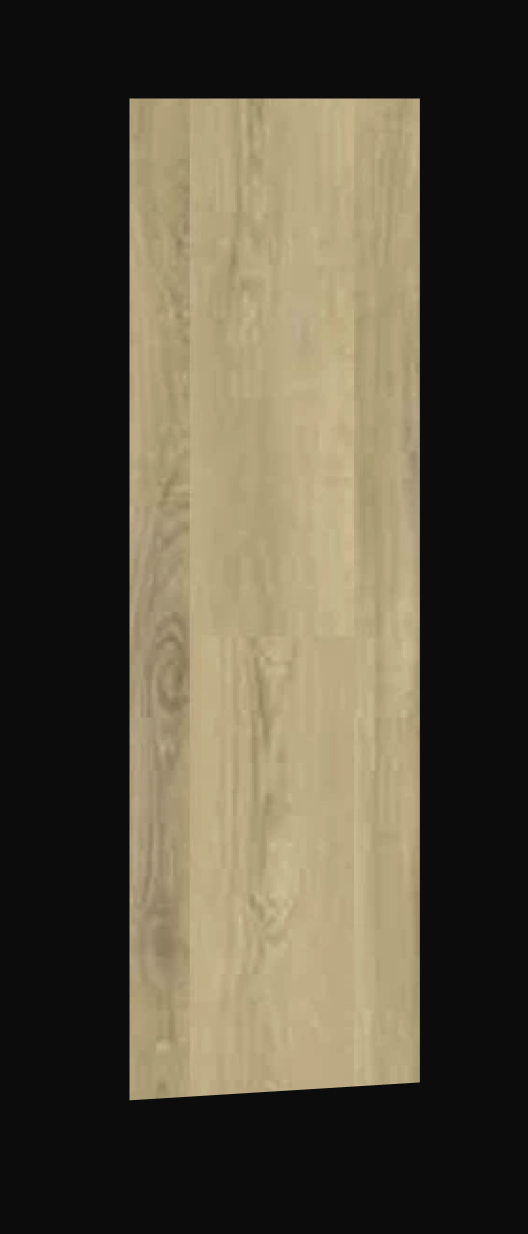
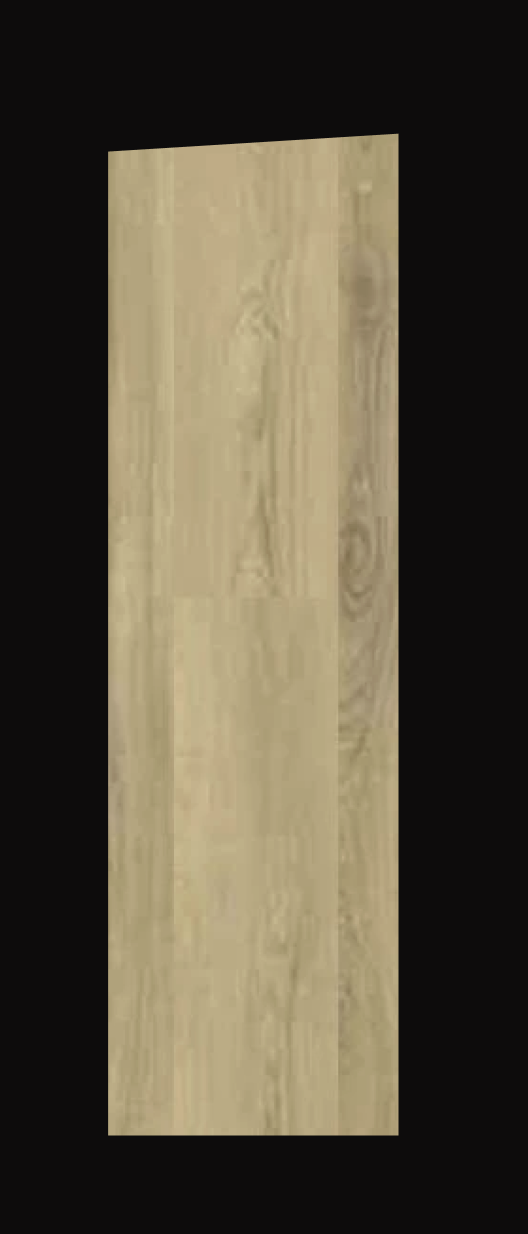
latest update

Changed region(s): [[0.1818, 0.0616, 0.8182, 0.9238], [0.4242, 0.154, 0.4848, 0.2464]]

diff --git a/main.py b/main.py
@@ -1,0 +1,112 @@
+import cv2
+import numpy as np
+import math
+import matplotlib.pyplot as plt
+import os
+
+# Sti til mappen for behandlede billeder
+processed_path = "./Processed"
+
+
+
+def calculate_angle(line1, line2):
+    """
+    Beregner vinklen mellem to linjer givet i formatet ((x1, y1), (x2, y2)).
+    """
+    if len(line1) != 4 or len(line2) != 4:
+        raise ValueError("Linjer skal have formatet (x1, y1), (x2, y2)")
+
+    x1, y1, x2, y2 = line1
+    x3, y3, x4, y4 = line2
+
+    # Beregn retning af hver linje
+    vector1 = [x2 - x1, y2 - y1]
+    vector2 = [x4 - x3, y4 - y3]
+
+    # Beregn vinklen mellem vektorerne
+    dot_product = np.dot(vector1, vector2)
+    mag1 = math.sqrt(vector1[0]**2 + vector1[1]**2)
+    mag2 = math.sqrt(vector2[0]**2 + vector2[1]**2)
+
+    # Undgå division med nul
+    if mag1 == 0 or mag2 == 0:
+        raise ValueError("En af linjerne har nul længde, kan ikke beregne vinkel.")
+
+    angle = math.acos(dot_product / (mag1 * mag2)) * (180 / math.pi)
+    return angle
+
+def crop_region(image, region="top", crop_ratio=0.2):
+    """
+    Beskær top eller bund af billedet.
+    """
+    h, w = image.shape[:2]
+    if region == "top":
+        return image[:int(h * crop_ratio), :]
+    elif region == "bottom":
+        return image[int(h * (1 - crop_ratio)):, :]
+    else:
+        raise ValueError("Region skal være 'top' eller 'bottom'.")
+
+def process_region(region_image):
+    """
+    Finder linjer i en beskåret region.
+    """
+    gray = cv2.cvtColor(region_image, cv2.COLOR_BGR2GRAY)
+    blur = cv2.GaussianBlur(gray, (5, 5), 0)
+    edges = cv2.Canny(blur, 50, 150)
+    lines = cv2.HoughLinesP(edges, 1, np.pi / 180, threshold=50, minLineLength=30, maxLineGap=5)
+    return lines
+
+# Liste over billedstier
+image_paths = [
+    "./billeder/Korrektvinkel.png",
+    "./billeder/forkertvinkel.png",
+    "./billeder/forkertvinkel2.png"
+]
+
+# Tolerance for at vurdere, om vinklen er korrekt
+tolerance = 0.132
+
+# Iterer gennem hver billedsti
+for image_path in image_paths:
+    print(f"Tjekker billede: {image_path}")
+    image = cv2.imread(image_path)
+
+    if image is None:
+        print(f"Kunne ikke indlæse billedet: {image_path}")
+        continue
+
+    # Beskær top-regionen
+    top_region = crop_region(image, region="top")
+
+    # Find linjer i top-regionen
+    lines = process_region(top_region)
+
+    if lines is not None and len(lines) >= 2:
+        # Tag de første to linjer og beregn vinklen
+        line1 = lines[0][0]
+        line2 = lines[1][0]
+        angle = calculate_angle(line1, line2)
+        angle = round(angle, 2)
+
+        # Tjek, om vinklen er inden for tolerance
+        if abs(angle - 90) <= tolerance:
+            print(f"Vinklen i øverste ende af {image_path} er: {angle:.2f} grader (Korrekt)")
+            line_color = (0, 255, 0)  # Grøn for korrekt
+        else:
+            print(f"Vinklen i øverste ende af {image_path} er: {angle:.2f} grader (Fejl)")
+            line_color = (0, 0, 255)  # Rød for fejl
+
+        # Tegn linjerne
+        top_region_with_lines = top_region.copy()
+        for line in lines:
+            x1, y1, x2, y2 = line[0]
+            cv2.line(top_region_with_lines, (x1, y1), (x2, y2), line_color, 2)
+
+        # Gem det behandlede billede
+        processed_image_path = os.path.join(processed_path, os.path.basename(image_path))
+        cv2.imwrite(processed_image_path, top_region_with_lines)
+        print(f"Gemte det behandlede billede som: {processed_image_path}")
+
+    else:
+        print(f"Ikke nok linjer fundet i øverste ende af {image_path}.")
